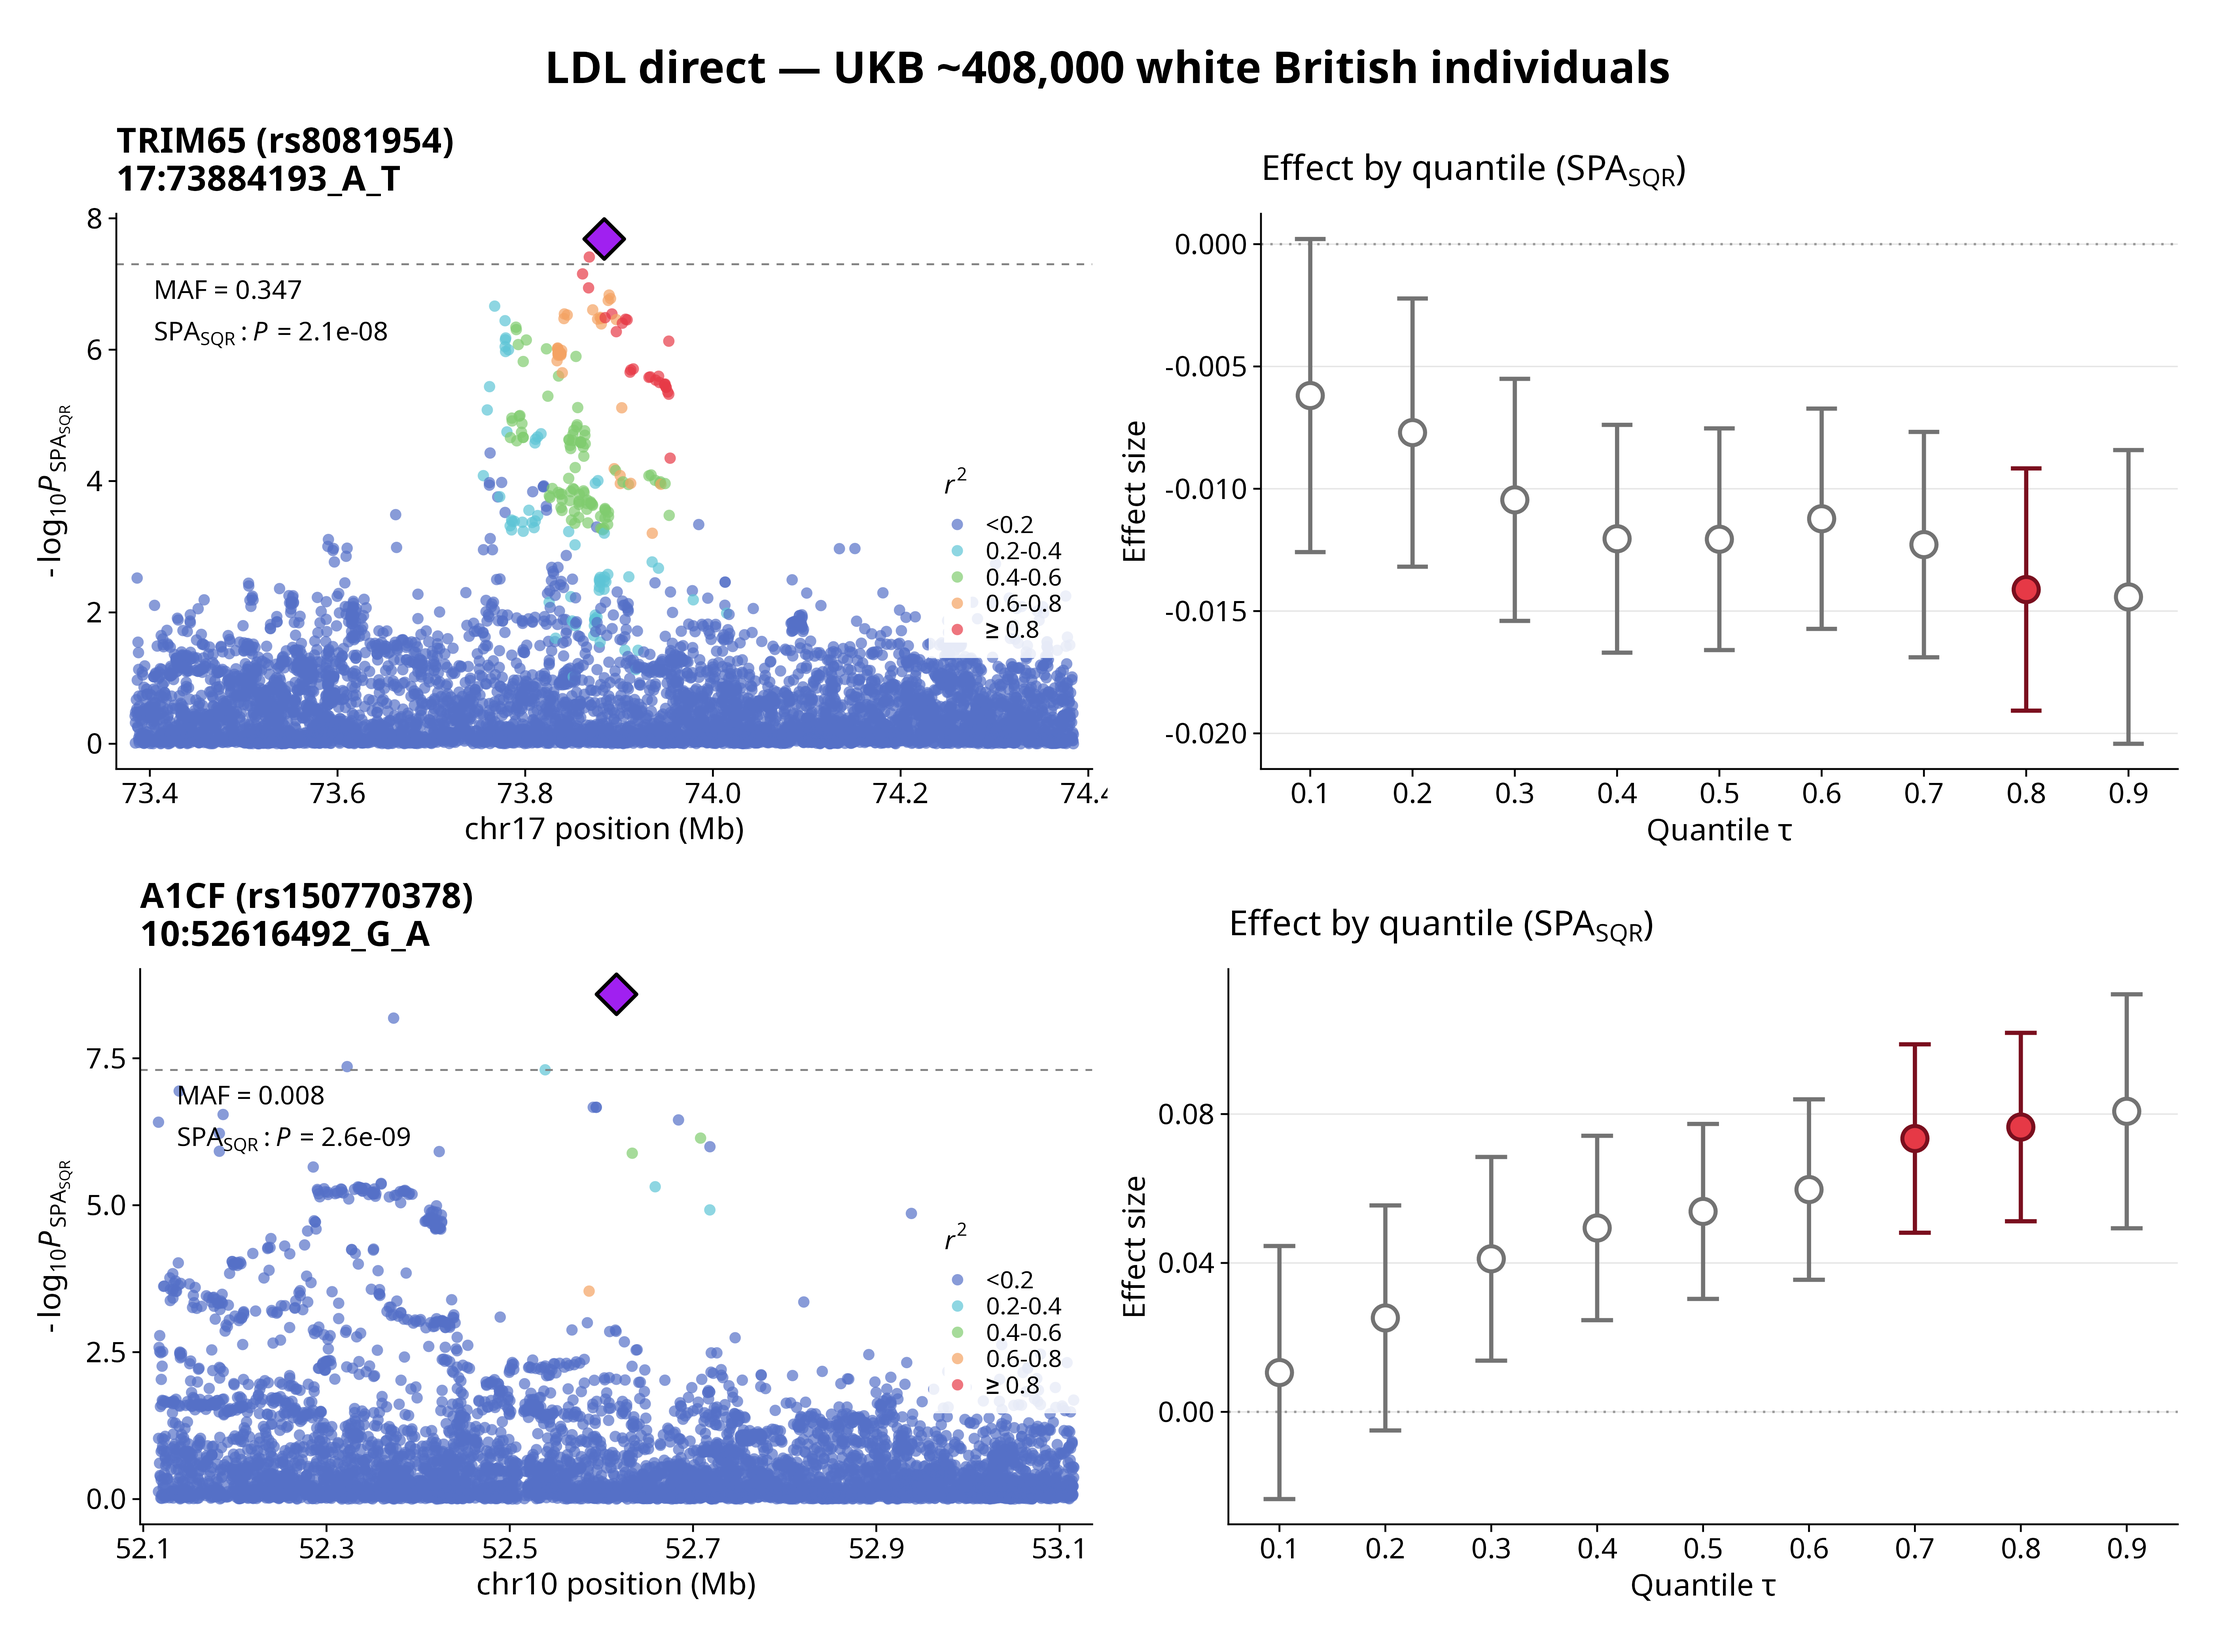
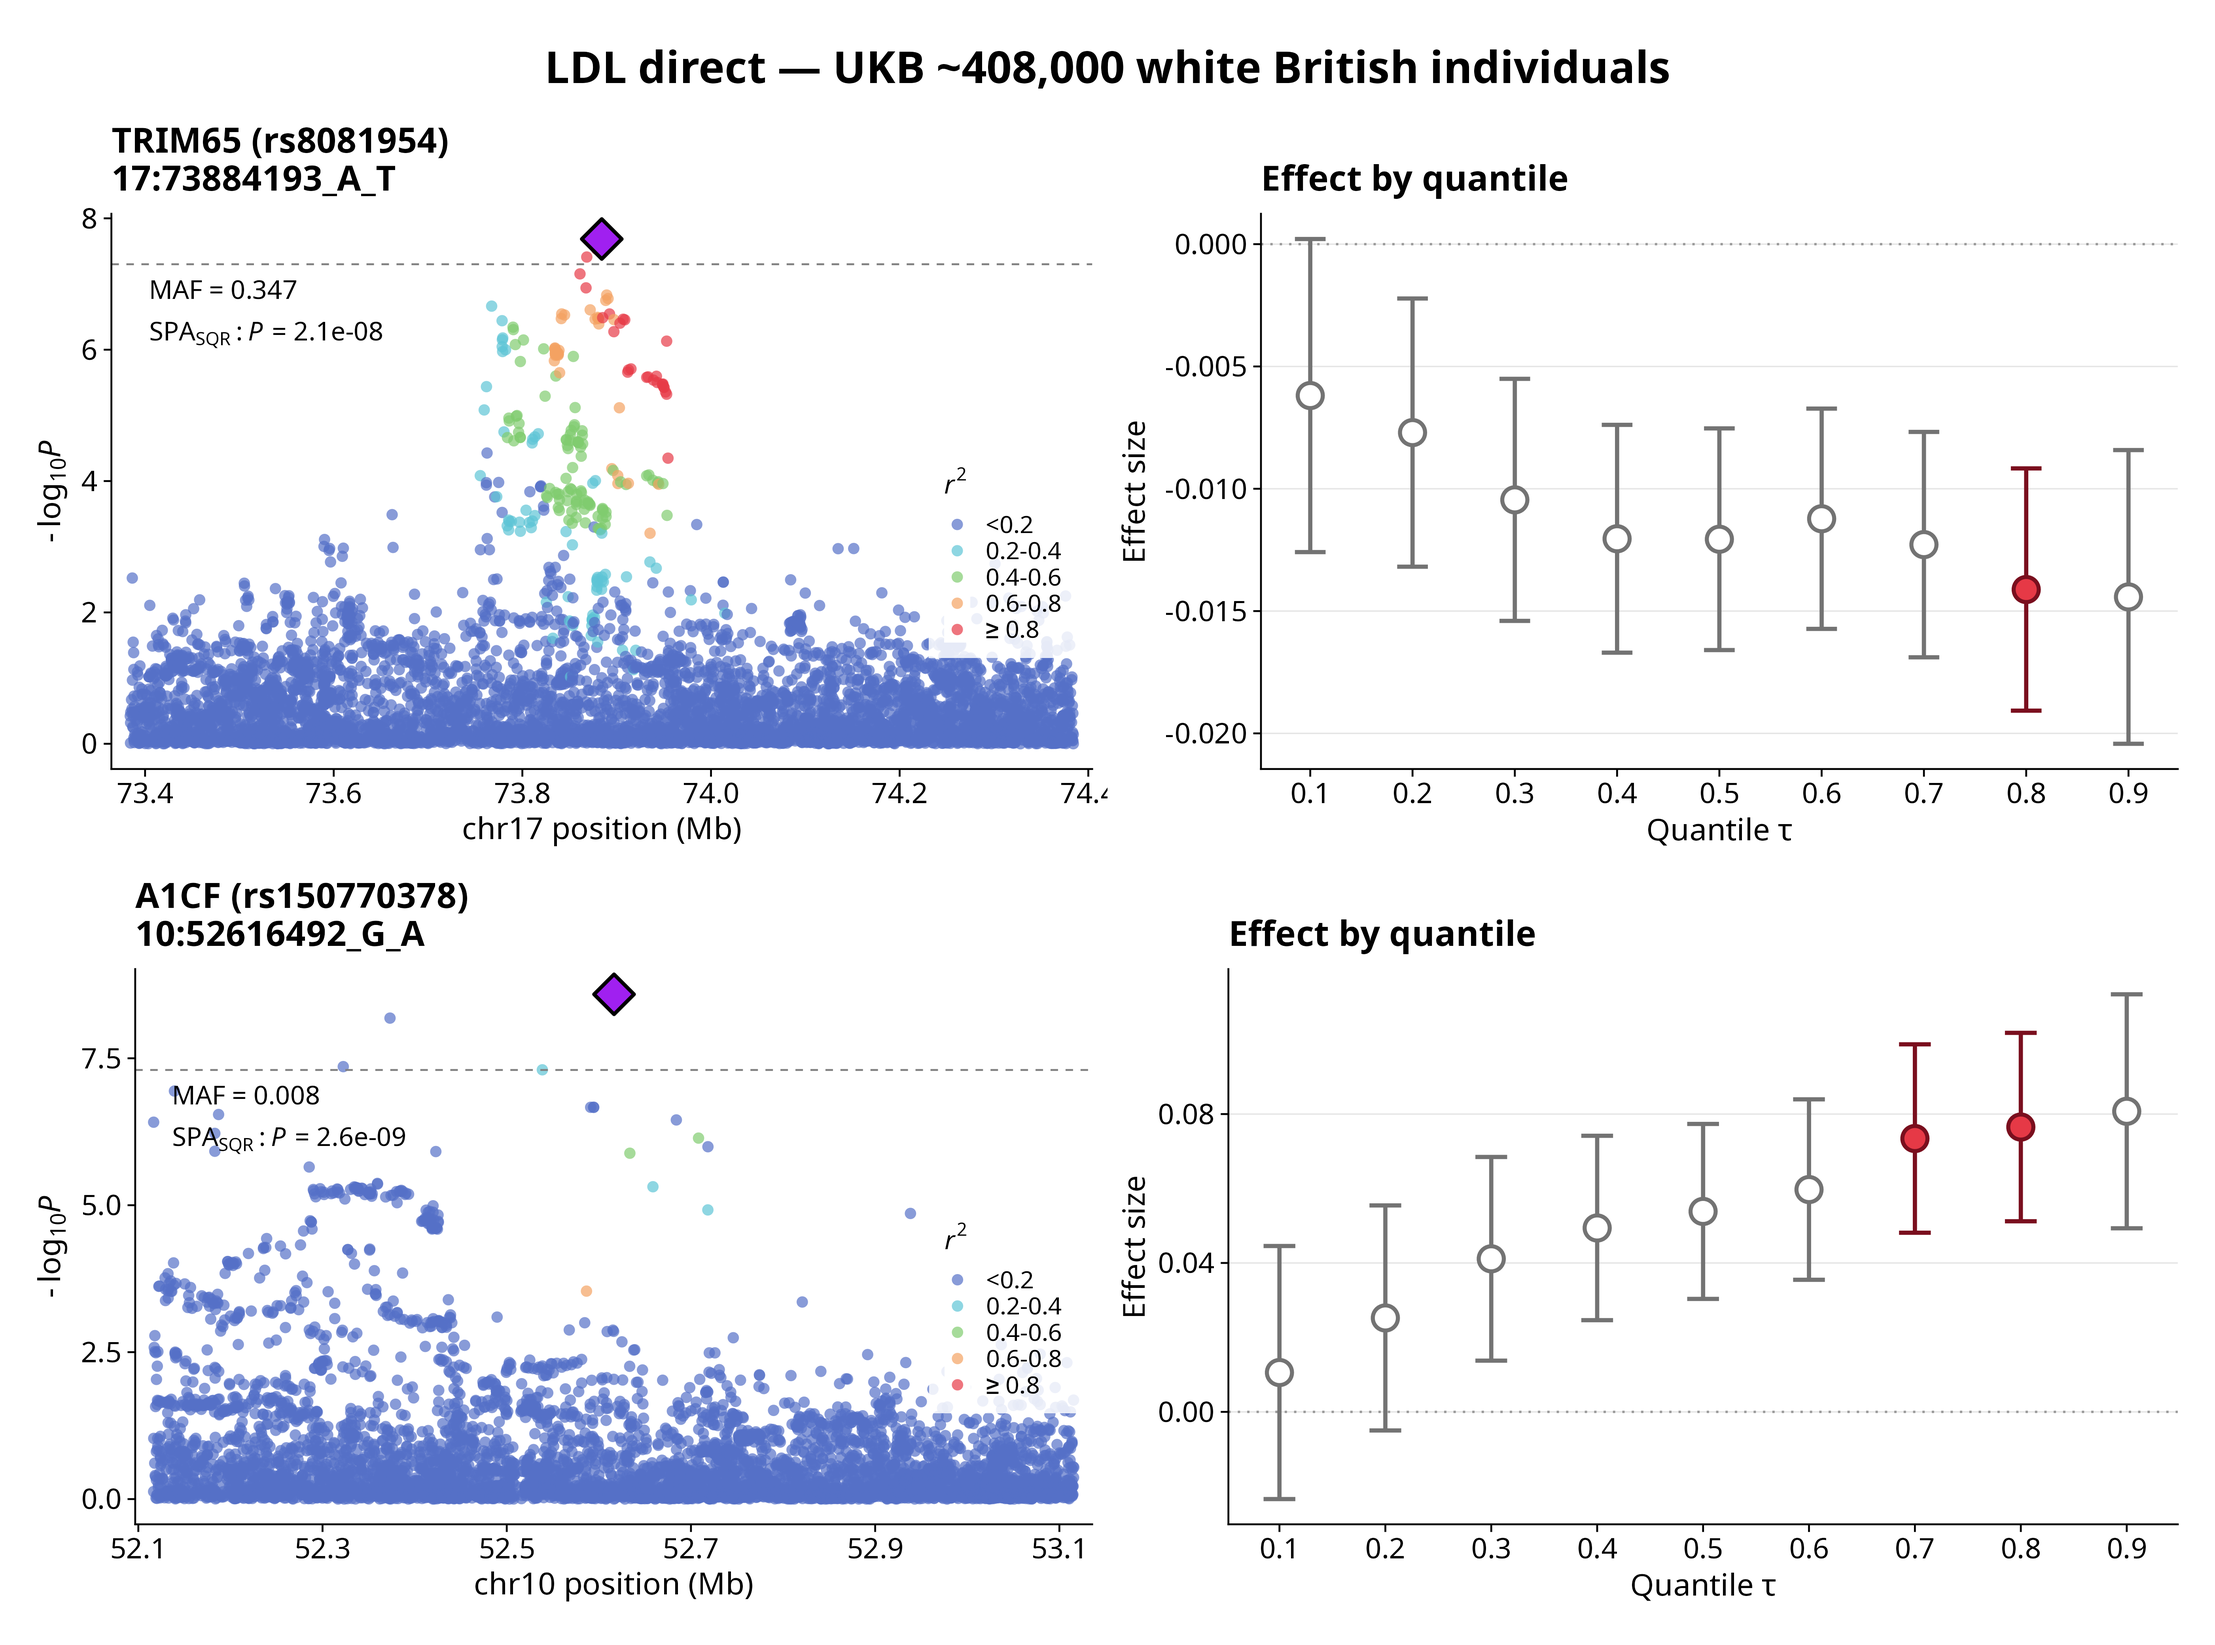
Update LDL figure, rename GRAB aux link, unify GRAB repo links
- swap in the updated ldl_panelc.png
- _config.yml: 'GRAB binary (GitHub)' -> 'GRAB on Github'
- shorten all-vs-per-trait sidebar title to match its H1
- point README/index GRAB links at GeneticAnalysisinBiobanks/GRAB

diff --git a/index.md b/index.md
@@ -11,7 +11,7 @@ permalink: /
 SPA<sub>SQR</sub> is a fast, robust framework for **quantile regression
 GWAS** on quantitative traits at biobank scale. It is implemented as the
 `SPAsqr` method of the
-[**GRAB**](https://github.com/qhengncsu/GRAB-feat-cpp) command-line
+[**GRAB**](https://github.com/GeneticAnalysisinBiobanks/GRAB) command-line
 binary — a single C++ executable that runs on Linux, macOS, and Windows.
 
 ## What is quantile regression GWAS?

diff --git a/README.md b/README.md
@@ -1,6 +1,6 @@
 # Documentation for SPA<sub>SQR</sub>
 
-**SPA<sub>SQR</sub> is implemented in the [GRAB](https://github.com/qhengncsu/GRAB-feat-cpp) command-line binary.**
+**SPA<sub>SQR</sub> is implemented in the [GRAB](https://github.com/GeneticAnalysisinBiobanks/GRAB) command-line binary.**
 
 **The full documentation is available at [SPA<sub>SQR</sub> documentation](https://qhengncsu.github.io/SPAsqr.github.io/).**
 

diff --git a/docs/all-vs-per-trait.md b/docs/all-vs-per-trait.md
@@ -1,6 +1,6 @@
 ---
 layout: default
-title: "One-trait-at-a-time is the best practice when analyzing many phenotypes"
+title: "All-traits-at-once vs one-trait-at-a-time"
 nav_order: 5
 description: "Two ways to run many traits: a single all-trait call vs one process per trait with a bash master launcher."
 has_children: false
